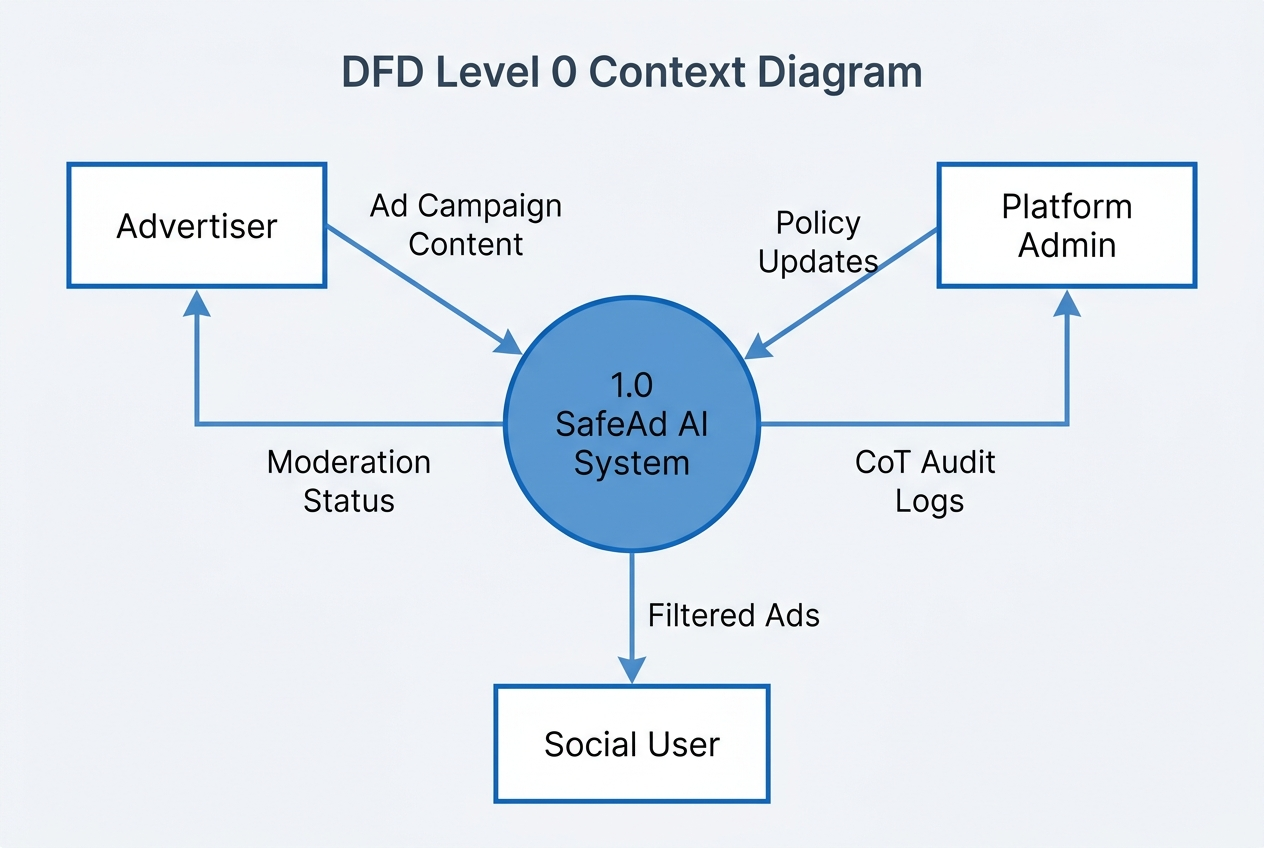
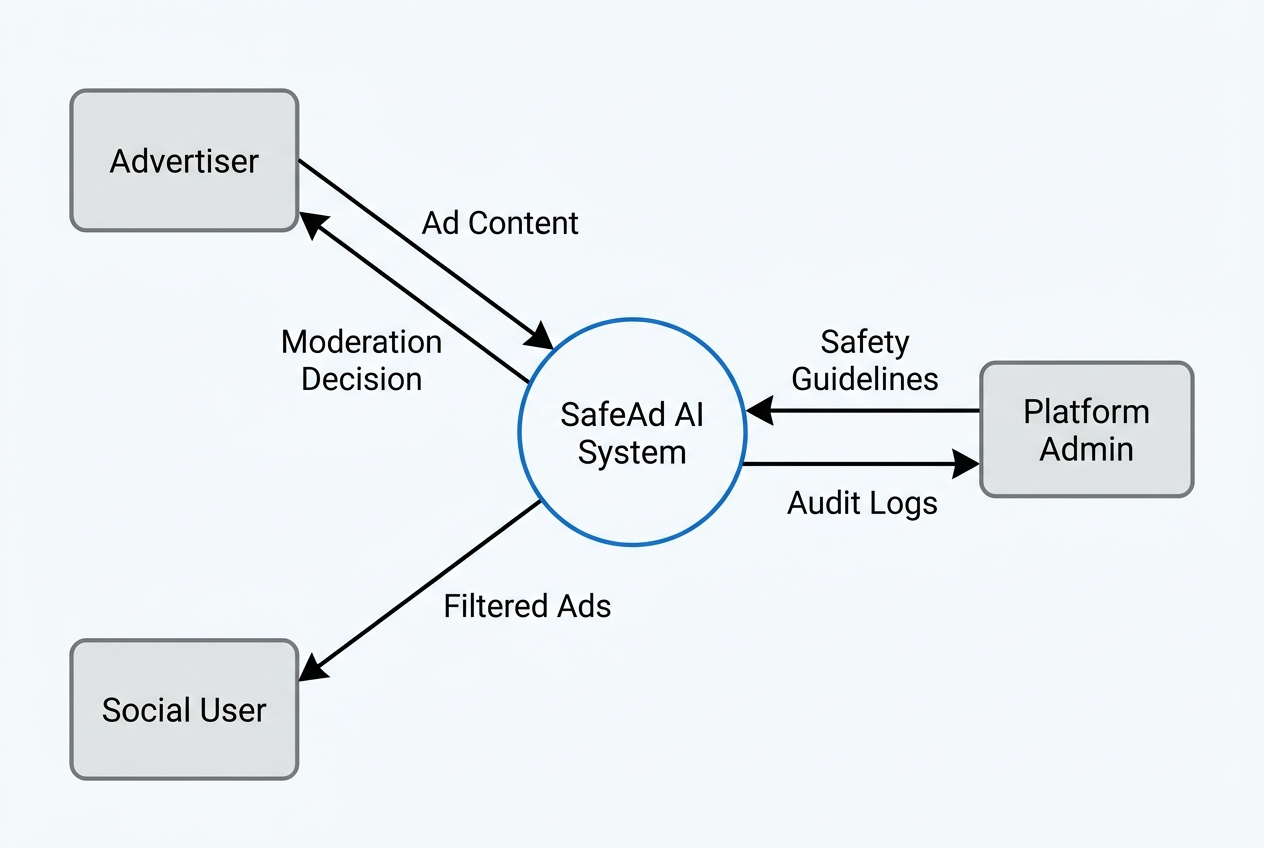
Simplify DFD Level 0 Context Diagram image and update documentation layout

diff --git a/system diagrams/system_diagrams.md b/system diagrams/system_diagrams.md
@@ -96,29 +96,15 @@ usecaseDiagram
 
 ## 🔄 Data Flow Diagram (DFD Level 0 - Context Diagram)
 
-DFD Level 0 models the overall boundary of the system as a single process and its interactions with external entities:
+DFD Level 0 represents the system boundary as a single process block (`SafeAd AI System`) interacting with external actors.
 
 ![SafeAd AI DFD Level 0 Context Diagram](./dfd_level_0.jpg)
 
-### Interactive Mermaid DFD Level 0 Flow:
-
-```mermaid
-graph LR
-    Advertiser["Advertiser (External Entity)"]
-    SocialUser["Social User (External Entity)"]
-    Admin["Platform Admin (External Entity)"]
-    
-    System("(1.0) SafeAd AI System")
-    
-    Advertiser -- "Submit Ad (Keyframes, OCR, Audio)" --> System
-    System -- "Moderation Status & Rationale" --> Advertiser
-    
-    SocialUser -- "View Ad Request" --> System
-    System -- "Filtered, Age-Appropriate Ads" --> SocialUser
-    
-    Admin -- "Upload Policy Rules" --> System
-    System -- "Chain-of-Thought Audit Logs" --> Admin
-```
+### 🎙 How to Explain DFD Level 0 Easily:
+You can explain this Context Diagram to a non-technical audience in three simple steps:
+1.  **The Advertiser Input & Output**: The advertiser submits the raw ad content (videos, memes, or text) to the system, and gets back a clear moderation decision (approved or flagged with safety reasons).
+2.  **The Social User Filtering**: When a user requests to view an ad, the system checks their estimated age and automatically delivers only age-appropriate ads.
+3.  **The Admin Governance**: The platform administrator provides safety policy guidelines to feed the AI, and in return, receives detailed Chain-of-Thought logs to audit the system's decisions.
 
 ---
 
